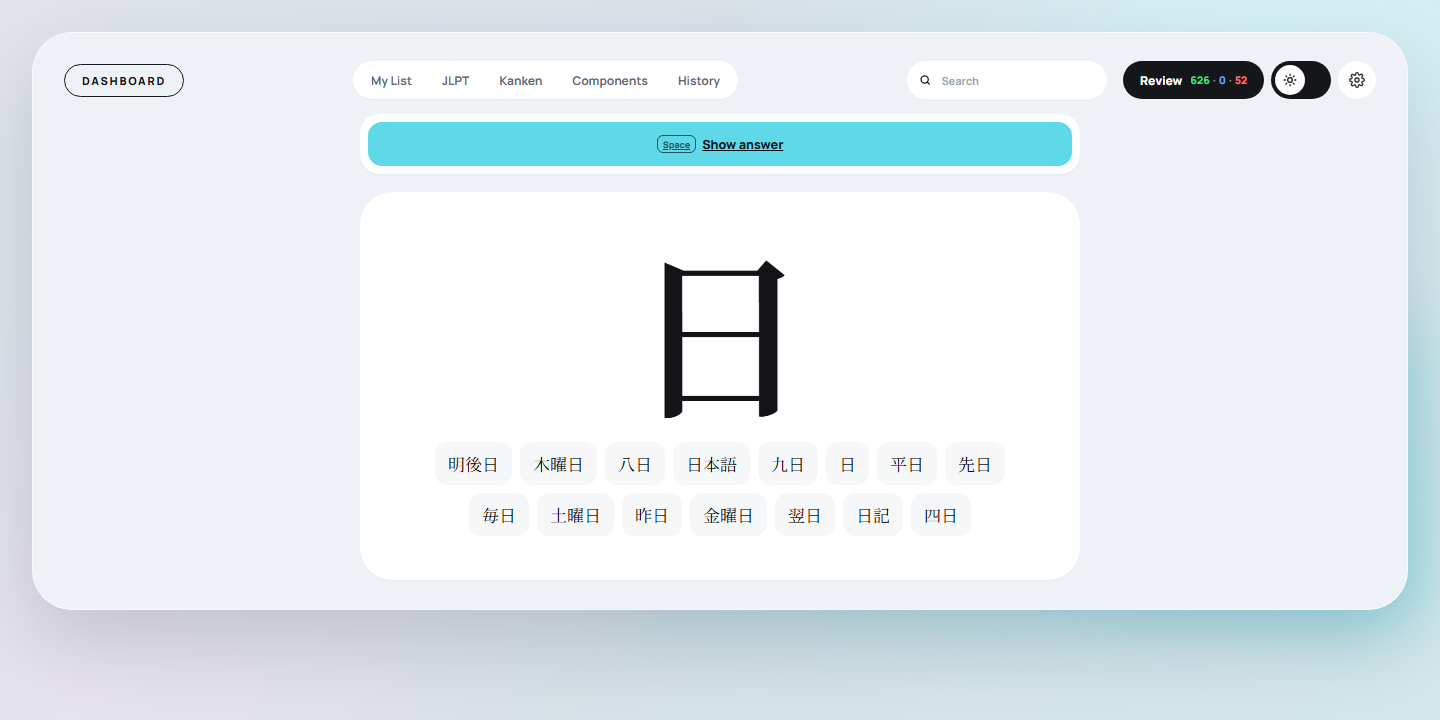
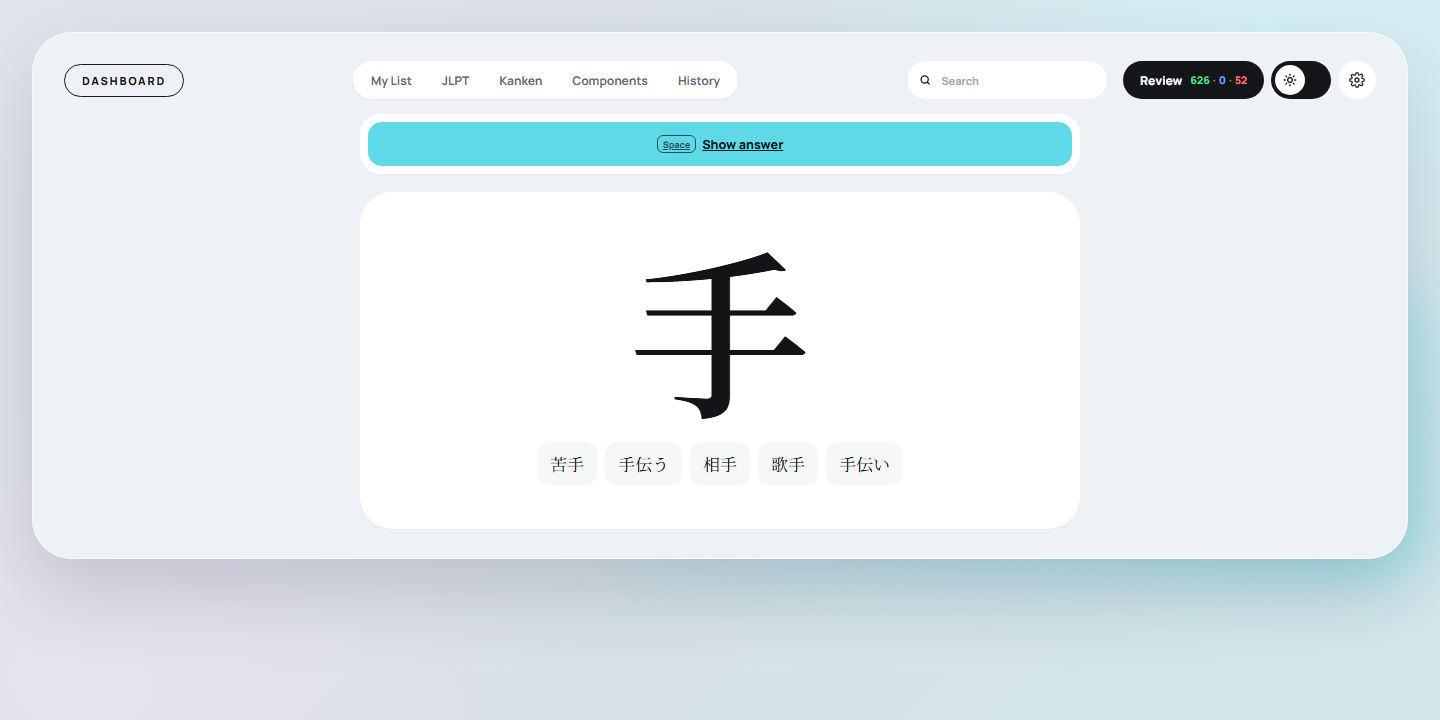
Link README screenshots to full-size files
Update the review screenshot to 手 and make each image clickable.

diff --git a/README.md b/README.md
@@ -6,21 +6,16 @@ It is a small, self-hosted, server-rendered web app that runs on top of your own
 
 ## Screenshots
 
-### Dashboard
-
-![Dashboard](docs/screenshots/dashboard.png)
-
-### Kanji detail
-
-![Kanji detail page](docs/screenshots/kanji.png)
-
-### Review
-
-![Review question page](docs/screenshots/review.png)
-
-### Word search
-
-![Word search results for dance](docs/screenshots/search.png)
+<table>
+<tr>
+<td width="50%"><a href="docs/screenshots/dashboard.png"><img src="docs/screenshots/dashboard.png" alt="Dashboard" width="100%"></a><br><sub><b>Dashboard</b></sub></td>
+<td width="50%"><a href="docs/screenshots/kanji.png"><img src="docs/screenshots/kanji.png" alt="Kanji detail page" width="100%"></a><br><sub><b>Kanji detail</b></sub></td>
+</tr>
+<tr>
+<td width="50%"><a href="docs/screenshots/review.png"><img src="docs/screenshots/review.png" alt="Review question page" width="100%"></a><br><sub><b>Review</b></sub></td>
+<td width="50%"><a href="docs/screenshots/search.png"><img src="docs/screenshots/search.png" alt="Word search results for dance" width="100%"></a><br><sub><b>Word search</b></sub></td>
+</tr>
+</table>
 
 ## What you can do with it
 
